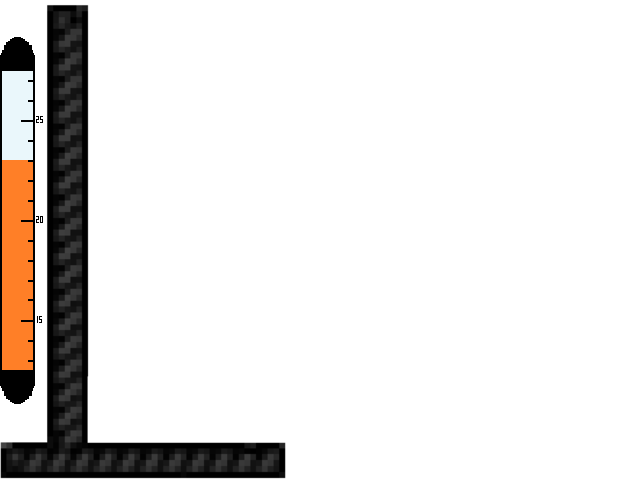
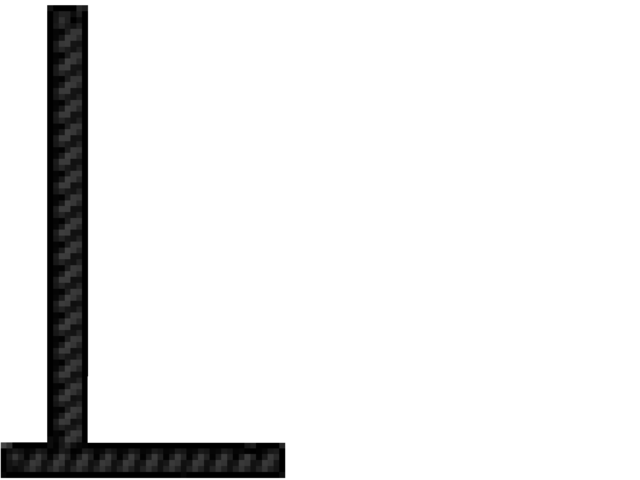
Random_Temperature_Pics

Changed region(s): [[0.0, 0.0625, 0.0625, 0.8438]]

diff --git a/WpfApp1/MainWindow.xaml.cs b/WpfApp1/MainWindow.xaml.cs
@@ -118,9 +118,6 @@ namespace WpfApp1
 
             myMetal = random.Next() % dataTable.Rows.Count;
 
-            // CHAANGE
-
-            myMetal = 0;
             this.CreateRenderWindow();
 
             var refreshRate = new TimeSpan(0, 0, 0, 0, 1000 / 60);
